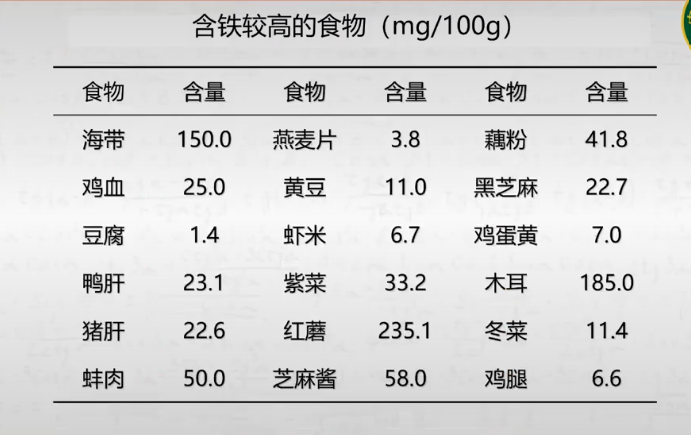
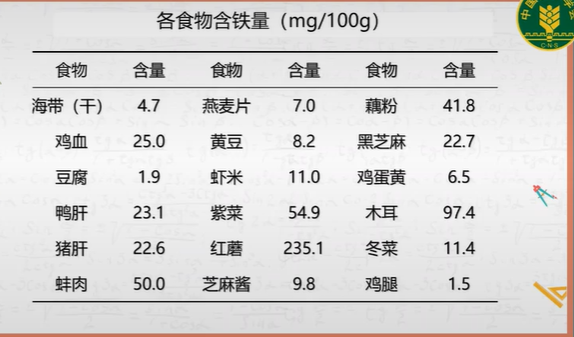
nutrition education

diff --git a/note.md b/note.md
@@ -2207,7 +2207,224 @@
 			* 6. 坚持健身与益智活动，促进身心健康
 
 * ***职业模块七、营养咨询与教育***
-* **PART21、**
-* **PART22、**
-* **PART23**、
-* **PART24、**
+* **PART21、营养教育**
+	* 营养相关健康问题
+		* 高能量、高糖、高脂等不良饮食习惯密切相关的慢性非传染性疾病
+		* 贫困、资源缺乏有关的营养缺乏、贫血等问题
+	* 营养教育和社区营养管理是面对广大居民，解决营养问题的重要手段
+	* **营养教育**：
+		* 是以==改善人民营养状况为目标==，通过营养科学的信息交流，帮助个体和群体获得食物和营养知识、形成科学合理饮食习惯的==教育活动和过程==，是健康教育的重要组成部分。
+	* ==**一、营养教育概述**==
+		* 目的：==提高==各类人群对营养与健康的认识，==消除或减少==不利于健康的膳食饮食，==改善==营养状况，==预防==营养性疾病的发生，==提高==生命的健康水平和生活质量。
+		* 1. 营养教育对象和营养教育工作者
+			* (1) 主要对象
+				* 个体
+				* 群体：各类组织机构
+				* 社区
+				* 政府部门
+			* (2) 工作者需要具备的知识和能力
+				* 掌握营养与食品卫生学、食品学、预防医学、卫生经济学等
+				* 了解社会、经济、有关政策以及文化因素对膳食营养状况的影响
+				* 具有社会心理学、认知、教育以及行为科学的基础
+				* 具有传播营养知识的能力
+				* 有一定现场组织协调和研究能力
+		* 2. 营养教育的主要工作领域
+			* (1) 有计划地对相关人员进行营养知识培训；
+			* (2) 将营养知识纳入中小学的教育内容；
+			* (3) 将营养工作纳入到初级卫生保健服务体系；
+			* (4)广泛开展群众性营养宣传活动(宣传媒介)
+	* ==**二、营养教育的实施步骤**==
+		* 1. ==了解教育对象==-------->充分认识其营养健康信息，为制定计划提供可靠依据；
+		* 2. ==制定营养教育计划==-------->根据实际情况制订，且要有依据、有针对性、有目的性地进行；
+		* 3. ==确定营养教育途径和资料==-------->选择适宜的交流途径和制作有效的材料；
+		* 4. ==营养教育前期准备==-------->编写相关营养教育教材
+		* 5. ==实施营养教育计划==-------->实施，反馈，纠正
+		* 6. ==教育效果评价==-------->以目标人群营养知识、态度和行为的变化为重点
+	* ==**三、营养教育相关的理论**==
+		* 1. 健康传播理论
+			* 传播时人类通过符号和媒介交流信息，以期发生相应变化的活动
+			* 目的具有的特点：社会性、普遍性、互动性、共享性、符号性和目的性
+			* ==五要素：传播者、受传者、信息、传播媒介、反馈==
+			* 健康传播：是指以“人人健康”为出发点，==运用各种传播媒介渠道和方法==，为维护和促进人类健康的目的而==制作、传递、分散、交流、分享健康信息==的过程。
+			* 健康传播时健康教育与健康促进的重要手段和策略。
+		* 2. 行为改变理论
+			* (1) “知信行”模式
+				* 健康教育的“知信行”模式(KABP/KAP模式)人类，只有当人们了解了有关的健康知识，建立起积极、正确的信念与态度，才有可能主动地形成有益于健康的行为，改变危害健康的行为
+				* 知识(knowledge)-了解
+				* 信念(belief)-形成信念
+				* 行为(practice)-行动
+			* (2) 健康信念模式(health belief model, HBM)
+				* 是运用社会心理学方法解释健康相关行为的理论模式。该理论认为，==信念是人们采纳有利于健康的行为的基础==，人们如果具有疾病、健康相关的理念，他们就会采纳健康行为，改变危险行为。
+				* ![[健康信念模式.png]]
+			* (3) 行为改变的阶段理论
+				* 该理论的主要依据：
+					* 人的行为变化是一个过程而不是一个事件，而且每个改变行为的人都有不同的需要和动机，只有针对其需要提供不同的干预帮助，才能促使教育对象向下一级段转变，最终采纳有益于健康的行为。
+				* 分为5各阶段，成瘾行为有六个阶段(终止阶段)：
+					* ① 没有打算阶段
+					* ② 打算阶段
+					* ③ 准备阶段
+					* ④ 行动阶段
+					* ⑤ 维持阶段
+					* ⑥ 终止阶段(成瘾行为的最后阶段)
+					* 干预的行为首先要确定目标人群所处的阶段，然后有针对性地采取干预措施，才能取得预期的效果
+* **PART22、社区营养管理**
+	* 社区营养是指在社区内，运用营养科学理论、技术及社会性措施，==研究和解决社区人群营养问题==，**包括生产和供给、膳食结构、饮食行为、社会经济、营养政策、营养教育及营养性疾病预防**等方面的工作。
+	* **目的**：是通过==开展==**营养调查、营养干预、营养监测、营养教育等社区营养工作**，==提高==社区人群的营养知识水平，==改善==膳食结构，==增进==健康，进一步==提高==社区人群的生活质量。
+	* 同时为国家或当地政府制定食物营养政策、经济政策及卫生保健政策提供**科学依据**。
+	* **一、社区营养管理概述**
+		* 社区营养管理的主要工作内容
+			* 1. ==了解社区人群营养和健康状况及其影响因素==
+				* 开展社区人群营养和健康调查，为有针对性地采取防治对策提供科学依据；
+			* 2. ==社区营养监测、干预和评价==
+				* 对有关营养状况指标==定期监测、分析和评价==，==掌握==人群营养状况的动态变化趋势，及时==发现==营养问题及其产生原因，便于进行改善；
+			* 3. ==社区营养改善==
+				* 进行==营养教育和咨询服务，普及营养知识==等
+	* **二、社区动员**
+		* ==社区动员==是将满足社区居民营养需要和增进健康的目标转化成为社区居民广泛参与的社会行动的过程。
+		* ==社区动员的目的==在于鼓励和动员社区居民，有关政府部门及社会团体积极参与社区营养工作。争取在人力、物力、财力方面的支持，==采取行动==以便解决社区的营养问题。
+		* 社区动员的工作内容
+			* 1. **社区卫生专业人员主动参与(具体执行者)**
+			* 2. 促使社区人群主动参与营养工作
+			* 3. 动员领导部门积极参与
+			* 4. 加强部门之间的沟通、协调和合作
+			* 5. 动员非政府组织参与
+	* 三、社区居民营养与健康资料的收集
+		* 1. 需要收集的资料
+			* 人口调查资料；膳食营养调查资料；健康资料；经济状况；文化教育程度；宗教信仰；生活方式；供水情况
+		* 2. 资料获得途径
+			* 收集现有统计资料；访谈；专题讨论；调查问卷
+	* 四、营养改善项目
+		* 计划设计步骤
+			* 1. 计划设计步骤
+				* **需求评估**->确定健康教育目标->制定干预策略->制定实施和评价方案
+			* 2. 计划的实施
+			* 3. 计划的评价
+		* 1. 分析营养问题
+			* 哪些人患营养不良或慢性病，其年龄、职业、经济水平、民族等；存在何种营养不良和营养慢性疾病；营养不良的程度；营养不良、慢性病的主要膳食原因
+		* 2. 确定项目目标
+			* 特定目标人群营养不良程度、性质和原因；干预项目涉及的范围、拥有的资源、社区参与等因素；拟选干预措施、干预的有效性、实施的可行性、成本效益，是否易于评估等
+		* 3. 制定计划
+			* 总体计划的主要内容
+			* 制定项目计划的要求：==针对性、可行性、易于确定靶目标、降低经费开支、易于评价==
+		* 4. 执行计划
+			* 严格按制定的各项活动及时间安排执行计划，并进行监测，以便及时发现问题并进行修正。
+		* 5. 项目评价
+			* ==投入==
+				* 开展项目所投入的资源是否到位，使用是否合理，是否做到低成本高效益；
+			* ==产出==
+				* 是否达到预期效果
+			* ==效果==
+				* 各种改善措施对营养健康状况的改善，以及产生行为和生理变化的效果
+			* ==效益==
+				* 改善措施增进人体健康而可能带来的社会效益和经济效益
+	* 五、社区营养教育
+		* 1. 社区营养教育的基础交流模式
+			* (1) ==单向交流==，其过程有信息来源、加工信息、传播渠道、解码/解释和受者/接受者
+			* (2) 双向交流：直播课后的线上交流
+			* (3) 大众交流：自媒体短视频平台、电视、广播等
+			* (4) 参与式交流：圆桌会议
+		* 2. 社区营养教育程序
+			* (1) ==设计==
+				* 确定对象，主要特征是什么
+				* 确定教育目的
+				* 确定宣传的知识及教育对象对这些知识的了解程度
+				* 制定教育目标
+				* 选择评价指标和评价方法
+				* 实施计划的日程、人员安排和经费预算
+			* (2) ==选择教育途径和资料==
+			* (3) ==准备营养教育资料和进行预实验==
+			* (4) ==社区营养教育实施==
+			* (5) ==社区营养教育评价==
+				* 计划目标是否达到
+				* 实施营养教育产生了什么效果
+				* 每一阶段活动的执行是否按计划进行
+				* 营养计划有效或无效的原因是什么
+				* 根据执行中的问题，对原计划是否需要进行补充
+				* 取得了哪些成功的经验
+	* 六、社区营养改善示例
+		* 1. 社区高血压人群营养改善项目
+			* 项目意义
+			* 社区的营养问题
+			* 项目目标
+				* 总目标
+				* 分目标
+			* 干预措施
+				* ①开展社区营养教育活动；②对高危人群进行管理如建立健康档案、定期回访；③对健康人群的健康管理
+			* 评价效果
+* **PART23、营养缺乏病预防**
+	* 营养缺乏病：指长期严重缺乏一种或多种营养素而造成机体出现各种相应的临床表现或病症。
+	* 原发性：指单纯营养摄入不足
+	* 继发性：指由于其他疾病过程而引起的营养素不足
+	* 预防营养缺乏病主要着手于：
+		* 食物多样化，优化食物结构。每天12种，每周25种，多吃粗杂粮
+		* 普及营养知识，指导食品消费
+		* 针对实际营养问题采取有效措施预防营养缺乏病
+	* 一、蛋白质-能量营养不良
+		* 1. 定义：因能量和蛋白质摄入不足引起的营养缺乏病
+		* 2. 类型：
+			* (1) 水肿型营养不良(体重60%-80%)
+				* 能吃饱，但蛋白质摄入不足导致的
+				* 多见：4个月-5岁小儿
+				* 表现：四肢、腹部、脸部等处凹陷性水肿
+			* (2) 干瘦型营养不良(低于60%)
+				* 吃都吃不饱导致的
+				* 表现：重度消瘦，肌肉萎缩无力如“皮包骨”
+			* (3) 混合型营养不良
+				* 介于上述二型之间
+		* 预防：
+			* 1. ==合理膳食==
+				* 膳食提供充足的能量和蛋白质是基本预防措施
+			* 2. ==推广生长发育监测图的应用==
+				* 发现==体重增长缓慢、不增或下跌者==应寻找原因，并及时纠正
+			* 3. ==合理安排生活制度==
+				* 适当安排户外活动，坚持锻炼以增进食欲，提高消化能力
+			* 4. ==减少感染，早期诊断和治疗==
+	* 二、VA缺乏的原因和主要表现
+		* 1. 原因
+			* (1) ==摄入不足==：小儿
+			* (2) ==吸收利用障碍==：慢性消化道疾病，如比较消瘦的人或排便比较快的人、消化比较快的人
+			* (3) ==需要量增加==：早产儿、重体力劳动者、急慢性消耗性疾病、各种传染病
+			* (4) ==代谢障碍==：糖尿病
+			* (5) ==其他营养素的影响==：缺锌和蛋白质
+			* (6) ==其他因素==：酗酒、长期使用药物(秋水仙碱等)
+		* 2. 主要表现
+			* 多见于儿童、青少年；男性高于女性
+			* (1) ==眼部症状==(出现最早)：
+				* ==干眼症、夜盲症==(暗适应能力降低)、角膜软化
+			* (2) ==皮肤症状==：
+				* 轻者-正常干燥
+				* 严重-毛囊上皮角化“”蟾皮症
+			* (3) ==骨骼系统==：发育迟缓、易发生龋齿
+			* (4) ==生殖功能==：女性-影响受孕和怀胎，或导致胎儿畸形和死亡；男性-精子减少，性激素合成障碍
+			* (5) ==免疫功能==：患儿易发生反复呼吸道感染及腹泻
+		* 3. 预防
+			* ① ==摄入含VA及胡萝卜素丰富的食物==：动物性食品、深绿色蔬菜、胡萝卜、番茄、红薯等
+			* ② ==监测易感人群的VA营养状况==：婴幼儿、儿童、孕妇、乳母
+			* ③ ==对易患人群进行干预==：口服是视黄醇油滴、VA强化食品、膳食补充剂(服用和增量时都需要医生的建议下进行)
+	* 三、VD缺乏症
+		* 1. 原因
+			* (1) 阳光照射不足
+			* (2) VD及钙、磷摄入不足
+			* (3) VD及钙、磷肠道吸收障碍
+			* (4)其他原因-如肝肾疾病等影响其正常合成和代谢
+		* 2. 表现
+			* (1) ==**佝偻病-婴幼儿**==
+				* ① ==神经精神症状==：多汗、夜惊、枕秃
+				* ② ==骨骼表现==：颅骨软化、肋骨串珠、胸廓畸形(鸡胸、漏斗胸)、O型腿、X型腿等
+				* ③ ==其他==：发育不良、申请呆滞、呼吸运动受限制等
+			* (2) ==**骨软化症-成人**==
+				* ① 多见于妊娠多产的妇女及体弱多病的老人
+				* ② 常见：骨痛、肌无力、骨压痛；鸭步。
+		* 3. 预防
+			* (1) ==孕妇妊娠后期(7-9个月)==：鼓励孕妇晒太阳、食用富含VD和钙、磷及蛋白质的食品
+			* (2) ==冬春妊娠或体弱多病的孕妇==：7-9月给予VD制剂，同时服用钙剂
+			* (3) ==新生儿==：母乳喂养，尽早开始晒太阳
+			* (4) ==早产儿、双胎、人工喂养儿及冬天出生小儿==：生后1-2周开始给予VD制剂强化
+			* (5) ==有钙抽搐史或以淀粉为主食者==：补给适量钙
+	* 四、VB1缺乏症
+		* 1. 原因
+		* 2. 表现
+		* 3. 预防
+* **PART24、膳食营养与慢性疾病预防**
+* 
+* ***职业模块八、食品安全卫生***
